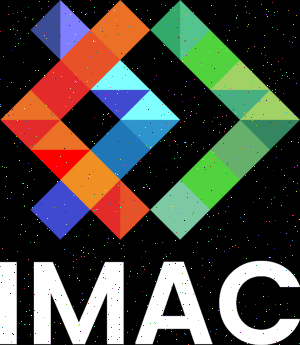
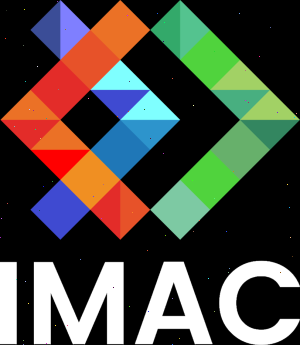
OPTI bruit, BEG glitch, OPTI main

diff --git a/src/main.cpp b/src/main.cpp
@@ -106,10 +106,7 @@ void miroir2 (sil::Image image) /*2e version*/
 
 void bruit(sil::Image image) 
 {
-    int noiseLvl{0};
-
-    std::cout << "Enter noise level" << std::endl;
-    std::cin >> noiseLvl;
+    int noiseLvl = random_int(1, 5000);
     
     for (int i{0}; i < noiseLvl; i++)
     {
@@ -248,17 +245,38 @@ void mosaique(sil::Image image)
         }
     }
     newImageMosaic.save("output/14_mosaique.png");
-};
+}
+
+void glitch(sil::Image image) 
+{
+    int glitchLvl = random_int(1, 10);
+
+    for (int repetitions = 0; repetitions < glitchLvl; repetitions++)
+    {
+        int xRectangle = random_int(1, 20);
+        int yRectangle = random_int(1, 10);
+        int gapBetweenPixels = random_int(1, 100);
+
+        for (int x{0}; x < xRectangle; x++)
+        {
+            for (int y{0}; y < yRectangle; y++)
+            {
+                std::swap(image.pixel(x, y), image.pixel(x + gapBetweenPixels, y + gapBetweenPixels));
+            }
+        }
+    }
+    image.save("output/16_glitch.png");
+}
 
 int main()
 {
-    set_random_seed(0);
     sil::Image logo{"images/logo.png"};
-    sil::Image lowContrast{"images/photo_faible_contraste.jpg"};
-    sil::Image blackRectangle{300, 200};
-    sil::Image image_noire{500/*width*/, 500/*height*/};  
-    sil::Image result2{300, 345};   //meme taille que logo
     sil::Image photo{"images/photo.jpg"};
+    sil::Image lowContrast{"images/photo_faible_contraste.jpg"};
+
+    sil::Image blackRectangle{300, 200};
+    sil::Image image_noire{500, 500};  
+    sil::Image result2{300, 345};
 
     /*seulementLeVert(logo);
     echangeRougeBleu(logo);
@@ -274,4 +292,6 @@ int main()
     disque(image_noire);
     cercle(image_noire);
     mosaique(logo);*/
+
+    glitch(logo);
 }
